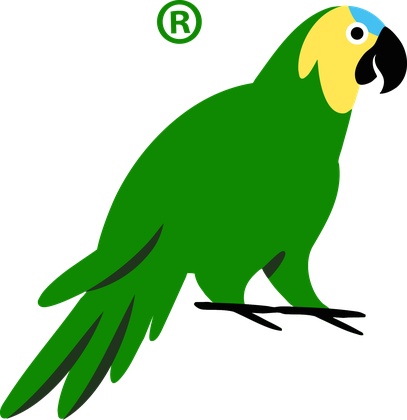
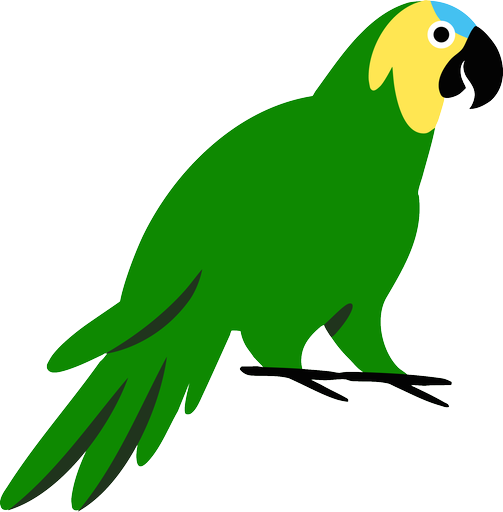
Retire closes its popup at the confirm; the picker says Dismiss model and Onboard model; the mascot without the registered mark
Retiring from a model's popup now closes it as soon as the confirm is
answered and reloads when done; a refusal reopens it with the reason. The
picker's buttons read "Dismiss model" and "Onboard model" ("... N models"
when several are ticked), so Dismiss is not mistaken for Close. ui/mascot.png
is the cut without the registered mark (from the vector master), and the
social card is re-rendered with it.

diff --git a/ui/bench.js b/ui/bench.js
@@ -308,10 +308,15 @@
     m.save.disabled = true; m.save.textContent = 'Saving…'; m.errors.textContent = '';
     post('/api/model', body).then(after(m.errors, m.save, 'Save')).catch(function (err) { m.errors.textContent = String(err); m.save.disabled = false; m.save.textContent = 'Save'; });
   });
+  // The confirm is the last word: the popup closes at once and the page
+  // reloads when the retirement is done. A refusal reopens it with the reason.
   m.remove.addEventListener('click', function () {
     if (!editing || !confirm('Retire ' + editing + '? The registry entry goes; the evidence stays, and Restore brings it back.')) return;
-    m.remove.disabled = true;
-    post('/api/remove', {alias: editing, typed: m.typed.value, reason: m.reason.value}).then(after(m.errors, null)).catch(function (err) { m.errors.textContent = String(err); armRemove(); });
+    m.remove.disabled = true; m.errors.textContent = ''; md.close();
+    function refused(errors) { md.showModal(); listErrors(m.errors, errors); armRemove(); }
+    post('/api/remove', {alias: editing, typed: m.typed.value, reason: m.reason.value}).then(function (res) {
+      if (res.ok) location.reload(); else refused(res.errors);
+    }).catch(function (err) { refused([String(err)]); });
   });
   m.restore.addEventListener('click', function () {
     m.restore.disabled = true; m.restore.textContent = 'Restoring…';
@@ -367,8 +372,8 @@
   function armStart() {
     var n = Object.keys(chosen).length;
     o.start.disabled = o.dismiss.disabled = !n;
-    o.start.textContent = n > 1 ? 'Onboard ' + n + ' models' : 'Onboard';
-    o.dismiss.textContent = n > 1 ? 'Dismiss ' + n : 'Dismiss';
+    o.start.textContent = n > 1 ? 'Onboard ' + n + ' models' : 'Onboard model';
+    o.dismiss.textContent = n > 1 ? 'Dismiss ' + n + ' models' : 'Dismiss model';
   }
   // Rows move between the lists here rather than by asking every endpoint again.
   function moveRows(keys, from, to) {

diff --git a/serve.py b/serve.py
@@ -3280,8 +3280,8 @@ def editor() -> str:
         "<div id='o-queue' hidden><p class='served' id='o-queue-sum'></p><ul class='oq-list' id='o-queue-list'></ul></div>"
         "<div class='errors' id='o-errors' role='alert'></div>"
         "<div class='actions'><button class='btn' id='o-close'>Close</button>"
-        "<button class='btn' id='o-dismiss' disabled>Dismiss</button>"
-        "<button class='btn primary' id='o-start' disabled>Onboard</button></div>"
+        "<button class='btn' id='o-dismiss' disabled>Dismiss model</button>"
+        "<button class='btn primary' id='o-start' disabled>Onboard model</button></div>"
         "</dialog>"
         # Add an endpoint (Manage's button), or a row's Change key: the key form alone.
         "<dialog id='endpoint-dialog' aria-labelledby='e-title'>"
